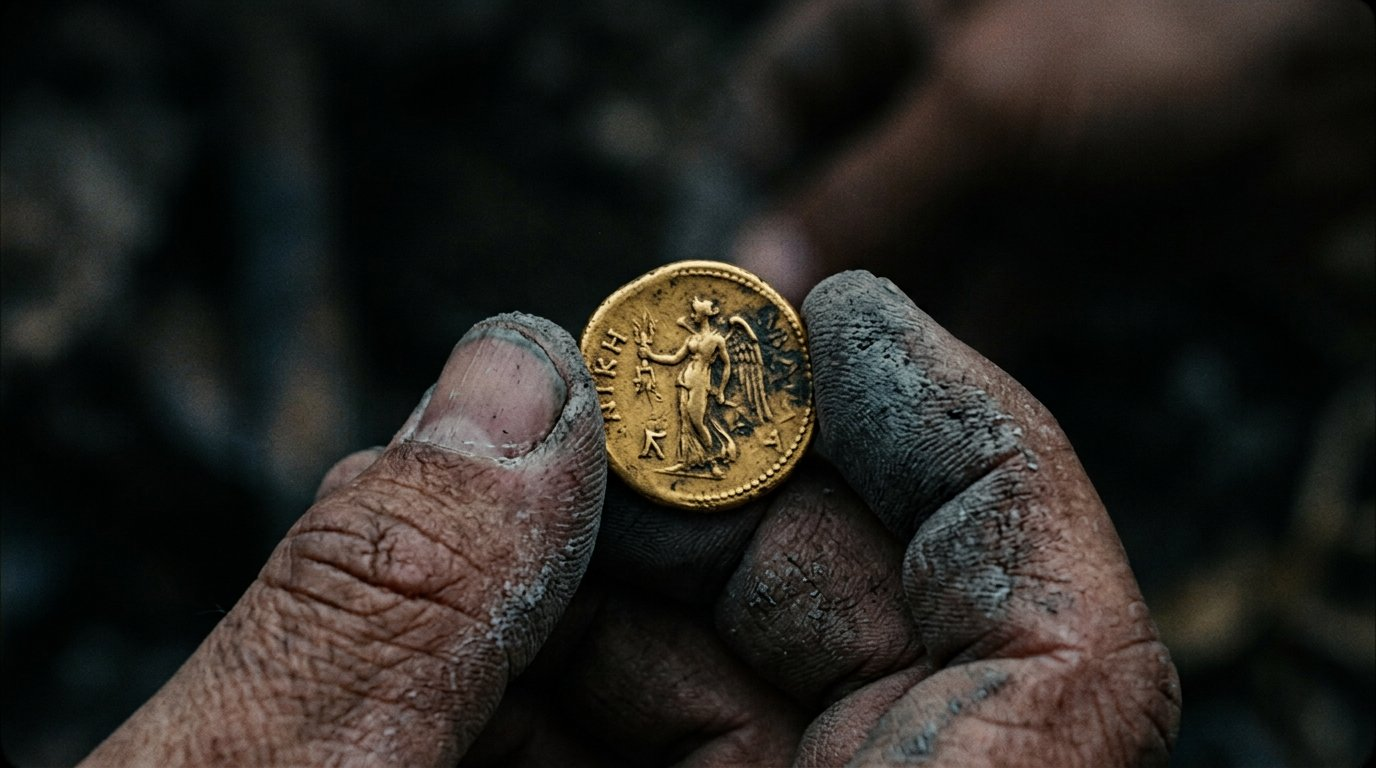
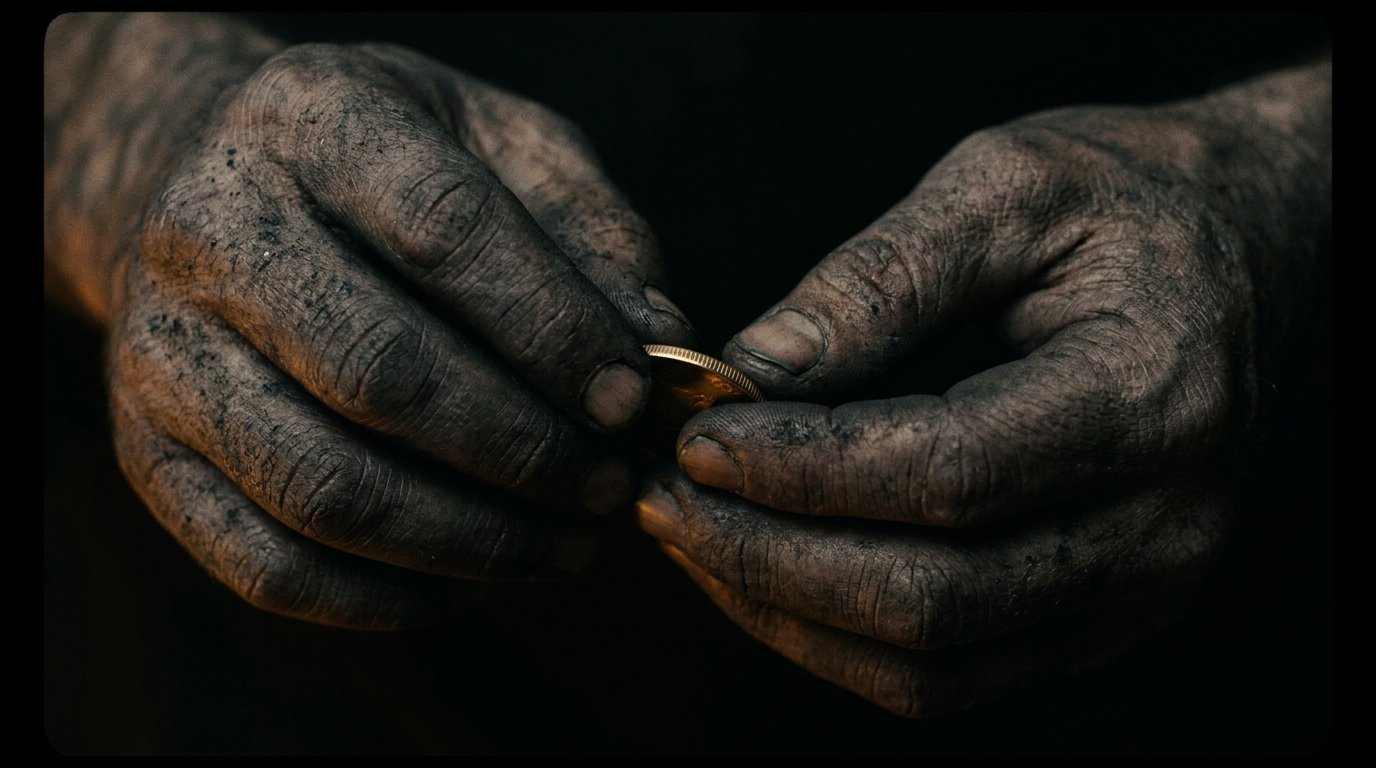
fix(art): 001 and 002 carried Greek coin faces, one with the word NIKE
002 was the worst image in the film: a winged Nike in a chiton with NIKH
cut into the field, which is both classical coinage and legible Greek
lettering. 001 had the same figure lying face-up in the ash.

The coin motif fails in every face-on instance — 001, 002, 057, 070 — so
all four are now turned edge-on or away, with the design never resolved.
This is the composition rule from 070 applied to the whole motif.

diff --git a/scripts/episode-audit/ep002_scene_directions.py b/scripts/episode-audit/ep002_scene_directions.py
@@ -43,11 +43,10 @@ GHIS = "warm ochre and terracotta brick, dusty gold light, deep blue-violet shad
 VALYRIA = "black volcanic rock, cold grey-blue haze, ember orange glow"
 
 SCENES = {
-1: ("A worn gold coin half-buried in grey volcanic ash inside a collapsed room of mud brick, the coin's face a winged woman with a raised fist and a thunderbolt, a broken clay water jar and a splintered wooden beam beside it, no tools, nobody present, daylight falling through the broken roof.",
+1: ('A collapsed room of mud brick choked with grey volcanic ash, a heavy gold disc lying in the ash at a steep angle so only its rim and the underside of its edge catch the light, the struck design turned away from the camera and lost in shadow, a broken clay water jar and a splintered wooden beam beside it, no tools, nobody present, daylight falling through the broken roof. The disc reads as a blank slug of gold with a milled edge, never a coin face, no figure on it, no gods or winged women, no letters or symbols.',
     GHIS),
-2: ("Close macro of a thumb turning a gold coin in a palm, the harpy and thunderbolt "
-    "almost worn smooth, grey ash dust on the fingers, dark background.",
-    "gold, ash grey, near-dark"),
+2: ("A close view of two grimy ash-caked hands turning something small over in the palms, the object mostly closed inside the fingers and half lost in shadow, only a sliver of warm gold and the milled edge showing between the knuckles, so nothing struck on it can be made out, deep shadow behind. No coin face visible, no standing winged figure, no goddess, no letters, no inscription, no Greek or Roman coinage.",
+    "gold on black"),
 3: ('A vast desert battlefield at dusk seen from high above, thousands of long iron spear shafts still planted upright in the dust where a Ghiscari phalanx stood, lockstep ranks with gaps in them, no bodies, long shadows, nobody left.',
     GHIS),
 4: ('A slow wide river crossing a flat plain of cracked clay, long low brick drying sheds and stacked clay tiles along the bank, coated in dust, a single flat-bottomed reed boat, low sun, haze on the horizon, no machinery.',
